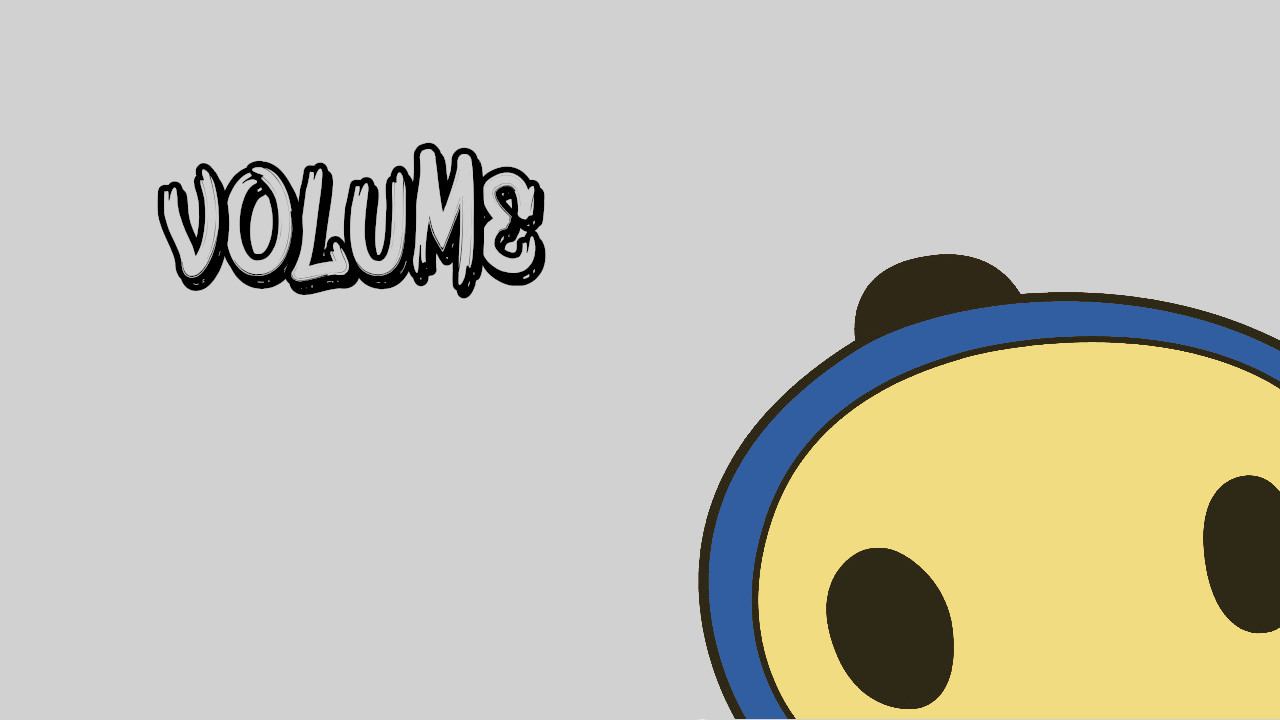
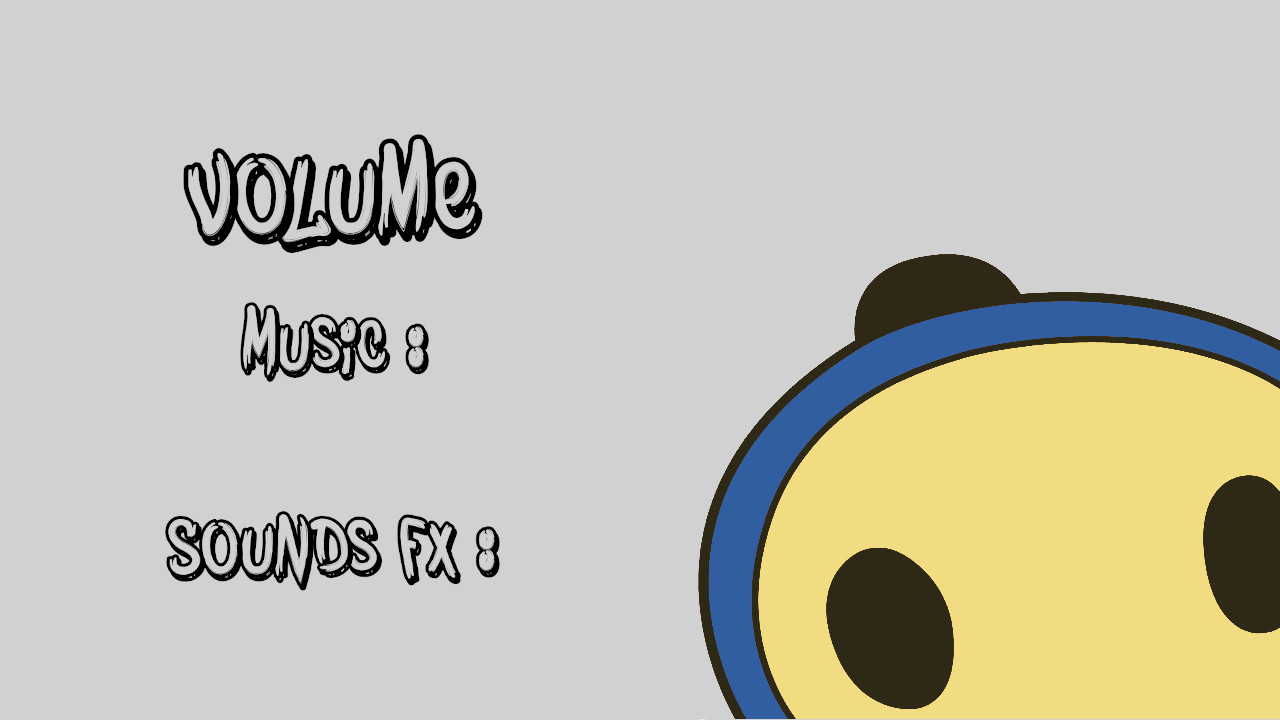
ADD - sound effect

Changed region(s): [[0.125, 0.1833, 0.4375, 0.5194], [0.125, 0.7028, 0.4062, 0.825]]

diff --git a/Settings/Settings.cpp b/Settings/Settings.cpp
@@ -12,16 +12,26 @@ Settings::Settings(const std::shared_ptr<IrrlichtController> &ctrl, const std::s
 void Settings::Init(void)
 {
     this->_background = this->_ctrl->_driver->getTexture(("../assets/fond_settings.jpg"));
-    this->_buttonPlus = std::make_unique<Button>(this->_ctrl->_device, vector2d<int>(100, 100), vector2d<int>((WIDTH / 4) + 90, (HEIGHT / 3) + 100), GUI_ID_PLUS_BUTTON, "../assets/volume_up.jpg", "../assets/volume_up_big.jpg");
-    this->_buttonMinus = std::make_unique<Button>(this->_ctrl->_device, vector2d<int>(100, 100), vector2d<int>((WIDTH / 4) - 100, (HEIGHT / 3) + 100), GUI_ID_MINUS_BUTTON, "../assets/volume_down.jpg", "../assets/volume_down_big.jpg");
+    this->_buttonPlus = std::make_unique<Button>(this->_ctrl->_device, vector2d<int>(100, 100), vector2d<int>((WIDTH / 4) + 70, (HEIGHT / 3) + 150), GUI_ID_PLUS_BUTTON, "../assets/volume_up.jpg", "../assets/volume_up_big.jpg");
+    this->_buttonMinus = std::make_unique<Button>(this->_ctrl->_device, vector2d<int>(100, 100), vector2d<int>((WIDTH / 4) - 130, (HEIGHT / 3) + 150), GUI_ID_MINUS_BUTTON, "../assets/volume_down.jpg", "../assets/volume_down_big.jpg");
+    this->_buttonPlusSound = std::make_unique<Button>(this->_ctrl->_device, vector2d<int>(100, 100), vector2d<int>((WIDTH / 4) + 70, (HEIGHT / 3) + 350), GUI_ID_PLUS_BUTTON_SOUND, "../assets/volume_up.jpg", "../assets/volume_up_big.jpg");
+    this->_buttonMinusSound = std::make_unique<Button>(this->_ctrl->_device, vector2d<int>(100, 100), vector2d<int>((WIDTH / 4) - 130, (HEIGHT / 3) + 350), GUI_ID_MINUS_BUTTON_SOUND, "../assets/volume_down.jpg", "../assets/volume_down_big.jpg");
     this->_buttonBack = std::make_unique<Button>(this->_ctrl->_device, vector2d<int>(1280, 100), vector2d<int>(0, 0), GUI_ID_BACK_BUTTON, "../assets/home_p.jpg", "../assets/home_fonce.jpg");
+    this->_buttonSound = std::make_unique<Sound>(this->_ctrl->_context, "../assets/sound_button.wav");
 }
 
 void Settings::Update(void)
 {
-    this->_buttonBack->updateButton(this->_ctrl->_context);
-    this->_buttonPlus->updateButton(this->_ctrl->_context);
-    this->_buttonMinus->updateButton(this->_ctrl->_context);
+    if (this->_buttonBack->updateButton(this->_ctrl->_context))
+        this->_buttonSound->Play();
+    if (this->_buttonPlus->updateButton(this->_ctrl->_context))
+        this->_buttonSound->Play();
+    if (this->_buttonMinus->updateButton(this->_ctrl->_context))
+        this->_buttonSound->Play();
+    if (this->_buttonPlusSound->updateButton(this->_ctrl->_context))
+        this->_buttonSound->Play();
+    if (this->_buttonMinusSound->updateButton(this->_ctrl->_context))
+        this->_buttonSound->Play();
 }
 
 void Settings::Render(void)

diff --git a/Music/Music.cpp b/Music/Music.cpp
@@ -18,21 +18,30 @@ int Music::Play(std::string filepath)
         return -1;
     this->_path_music = filepath;
     this->_music.play();
-    this->_music.setVolume(this->_context.volume);
+    this->_music.setVolume(this->_context.volume_music);
     return (0);
 }
 
 void Music::Update(void)
 {
-    if (this->_context.volume < 100 && this->_context.up_volume) {
-        this->_context.volume += 5;
+    if (this->_context.volume_music < 100 && this->_context.up_volume) {
+        this->_context.volume_music += 5;
         this->_context.up_volume = false;
     }
-    if (this->_context.volume > 0 && this->_context.down_volume) {
-        this->_context.volume -= 5;
+    if (this->_context.volume_music > 0 && this->_context.down_volume) {
+        this->_context.volume_music -= 5;
         this->_context.down_volume = false;
     }
-    this->_music.setVolume(this->_context.volume);
+    this->_music.setVolume(this->_context.volume_music);
+
+    if (this->_context.volume_sound < 100 && this->_context.up_volume_sound) {
+        this->_context.volume_sound += 5;
+        this->_context.up_volume_sound = false;
+    }
+    if (this->_context.volume_sound > 0 && this->_context.down_volume_sound) {
+        this->_context.volume_sound -= 5;
+        this->_context.down_volume_sound = false;
+    }
 }
 
 void Music::Stop(void)
@@ -42,5 +51,5 @@ void Music::Stop(void)
 
 float Music::getVolume(void)
 {
-    return this->_context.volume;
+    return this->_context.volume_music;
 }

diff --git a/Menu/ChoosePlayers.cpp b/Menu/ChoosePlayers.cpp
@@ -13,13 +13,17 @@ void ChoosePlayers::Init(void)
     this->_buttonOnePlayer = std::make_unique<Button>(this->_ctrl->_device, vector2d<int>(640, HEIGHT - 100), vector2d<int>(0, 100), GUI_ID_ONE_PLAYER_BUTTON, "../assets/one_player_grey.jpg", "../assets/one_player.jpg");
     this->_buttonTwoPlayers = std::make_unique<Button>(this->_ctrl->_device, vector2d<int>(640, HEIGHT - 100), vector2d<int>(640, 100), GUI_ID_TWO_PLAYERS_BUTTON, "../assets/two_players_grey.jpg", "../assets/two_players.jpg");
     this->_buttonBack = std::make_unique<Button>(this->_ctrl->_device, vector2d<int>(1280, 100), vector2d<int>(0, 0), GUI_ID_BACK_BUTTON, "../assets/home_grey_p.jpg", "../assets/home_p.jpg");
+    this->_buttonSound = std::make_unique<Sound>(this->_ctrl->_context, "../assets/sound_button.wav");
 }
 
 void ChoosePlayers::Update(void)
 {
-    this->_buttonOnePlayer->updateButton(this->_ctrl->_context);
-    this->_buttonTwoPlayers->updateButton(this->_ctrl->_context);
-    this->_buttonBack->updateButton(this->_ctrl->_context);
+    if (this->_buttonOnePlayer->updateButton(this->_ctrl->_context))
+        this->_buttonSound->Play();
+    if (this->_buttonTwoPlayers->updateButton(this->_ctrl->_context))
+        this->_buttonSound->Play();
+    if (this->_buttonBack->updateButton(this->_ctrl->_context))
+        this->_buttonSound->Play();
 }
 
 void ChoosePlayers::Render(void)

diff --git a/Menu/Menu.cpp b/Menu/Menu.cpp
@@ -15,13 +15,17 @@ void Menu::Init(void)
     this->_buttonPlay = std::make_unique<Button>(this->_ctrl->_device, vector2d<int>(427, HEIGHT), vector2d<int>(427, 0), GUI_ID_PLAY_BUTTON, "../assets/middle_grey_button.jpg", "../assets/middle_button.jpg");
     this->_buttonExit = std::make_unique<Button>(this->_ctrl->_device, vector2d<int>(427, HEIGHT), vector2d<int>(854, 0), GUI_ID_EXIT_BUTTON, "../assets/right_grey_button.jpg", "../assets/right_button.jpg");
     this->_ctrl->_music->Play("../assets/menu_music.ogg");
+    this->_buttonSound = std::make_unique<Sound>(this->_ctrl->_context, "../assets/sound_button.wav");
 }
 
 void Menu::Update(void)
 {
-    this->_buttonPlay->updateButton(this->_ctrl->_context);
-    this->_buttonSettings->updateButton(this->_ctrl->_context);
-    this->_buttonExit->updateButton(this->_ctrl->_context);
+    if (this->_buttonPlay->updateButton(this->_ctrl->_context) == 1)
+        this->_buttonSound->Play();
+    if (this->_buttonSettings->updateButton(this->_ctrl->_context) == 1)
+        this->_buttonSound->Play();
+    if (this->_buttonExit->updateButton(this->_ctrl->_context) == 1)
+        this->_buttonSound->Play();
 }
 
 void Menu::Render(void)

diff --git a/Settings/Settings.hpp b/Settings/Settings.hpp
@@ -8,6 +8,7 @@
 #include "Button.hpp"
 #include "GameScene.hpp"
 #include "Music.hpp"
+#include "Sound.hpp"
 
 using namespace irr;
 using namespace core;
@@ -25,11 +26,14 @@ class Settings : public GameScene {
     private:
         std::unique_ptr<Button> _buttonPlus;
         std::unique_ptr<Button> _buttonMinus;
+        std::unique_ptr<Button> _buttonPlusSound;
+        std::unique_ptr<Button> _buttonMinusSound;
         std::unique_ptr<Button> _buttonCredits;
         std::unique_ptr<Button> _buttonHelp;
         std::unique_ptr<Button> _buttonBack;
         std::unique_ptr<Music> _Music;
         ITexture *_background;
+        std::unique_ptr<Sound> _buttonSound;
 };
 
 

diff --git a/EventReceiver/MyEventReceiver.hpp b/EventReceiver/MyEventReceiver.hpp
@@ -20,9 +20,12 @@ struct SAppContext {
     core::position2di Position;
     bool settings;
     std::string sceneName;
-    float volume;
+    float volume_music;
+    float volume_sound;
     bool up_volume;
     bool down_volume;
+    bool up_volume_sound;
+    bool down_volume_sound;
 };
 
 class MyEventReceiver : public IEventReceiver {
@@ -42,6 +45,8 @@ enum ButtonType {
     GUI_ID_EXIT_BUTTON,
     GUI_ID_PLUS_BUTTON,
     GUI_ID_MINUS_BUTTON,
+    GUI_ID_PLUS_BUTTON_SOUND,
+    GUI_ID_MINUS_BUTTON_SOUND,
     GUI_ID_BACK_BUTTON,
     GUI_ID_ONE_PLAYER_BUTTON,
     GUI_ID_TWO_PLAYERS_BUTTON

diff --git a/EventReceiver/MyEventReceiver.cpp b/EventReceiver/MyEventReceiver.cpp
@@ -41,6 +41,12 @@ bool MyEventReceiver::OnEvent(const SEvent &event) {
                     case GUI_ID_MINUS_BUTTON:
                         Context.down_volume = true;
                         return true;
+                    case GUI_ID_PLUS_BUTTON_SOUND:
+                        Context.up_volume_sound = true;
+                        return true;
+                    case GUI_ID_MINUS_BUTTON_SOUND:
+                        Context.down_volume_sound = true;
+                        return true;
                     default:
                         return false;
                 }

diff --git a/Controller/IrrlichtController.cpp b/Controller/IrrlichtController.cpp
@@ -25,7 +25,10 @@ void IrrlichtController::Init(irr::video::E_DRIVER_TYPE driver_type, int width, 
     _context.sceneName = "";
     _context.down_volume = false;
     _context.up_volume = false;
-    _context.volume = 40; //à charger avec le fichier Save
+    _context.down_volume_sound = false;
+    _context.up_volume_sound = false;
+    _context.volume_music = 20; //à charger avec le fichier Save
+    _context.volume_sound = 40; //à charger avec le fichier Save
     this->_music = std::make_shared<Music>(_context);
     this->_receiver = new MyEventReceiver(_context);
 

diff --git a/Music/Sound.hpp b/Music/Sound.hpp
@@ -1,0 +1,25 @@
+//
+// Created by peter on 11/06/2020.
+//
+
+#ifndef BOMBERMAN_SOUND_HPP
+#define BOMBERMAN_SOUND_HPP
+
+#include <SFML/Audio.hpp>
+#include <string>
+#include <memory>
+#include "MyEventReceiver.hpp"
+
+class Sound {
+    public:
+        Sound(SAppContext &context, const std::string path);
+        ~Sound(){};
+        int Play(void);
+
+    private:
+        sf::SoundBuffer _buffer;
+        sf::Sound _sound;
+        SAppContext &_context;
+};
+
+#endif //BOMBERMAN_SOUND_HPP

diff --git a/Music/Sound.cpp b/Music/Sound.cpp
@@ -1,0 +1,19 @@
+//
+// Created by peter on 11/06/2020.
+//
+
+#include "Sound.hpp"
+
+Sound::Sound(SAppContext &context, const std::string path) : _context(context)
+{
+    this->_buffer.loadFromFile(path);
+    this->_sound.setBuffer(this->_buffer);
+    this->_sound.setVolume(_context.volume_sound);
+}
+
+int Sound::Play(void)
+{
+    this->_sound.setVolume(_context.volume_sound);
+    this->_sound.play();
+    return (0);
+}

diff --git a/Menu/ChoosePlayers.hpp b/Menu/ChoosePlayers.hpp
@@ -7,6 +7,7 @@
 
 #include "Button.hpp"
 #include "GameScene.hpp"
+#include "Sound.hpp"
 
 class ChoosePlayers : public GameScene {
     public:
@@ -19,6 +20,7 @@ class ChoosePlayers : public GameScene {
         std::unique_ptr<Button> _buttonOnePlayer;
         std::unique_ptr<Button> _buttonBack;
         std::unique_ptr<Button> _buttonTwoPlayers;
+        std::unique_ptr<Sound> _buttonSound;
 };
 
 

diff --git a/Menu/Menu.hpp b/Menu/Menu.hpp
@@ -7,6 +7,7 @@
 
 #include "GameScene.hpp"
 #include "Button.hpp"
+#include "Sound.hpp"
 
 class Menu : public GameScene {
     public:
@@ -19,8 +20,7 @@ class Menu : public GameScene {
         std::unique_ptr<Button> _buttonSettings;
         std::unique_ptr<Button> _buttonPlay;
         std::unique_ptr<Button> _buttonExit;
-
-
+        std::unique_ptr<Sound> _buttonSound;
 };
 
 
